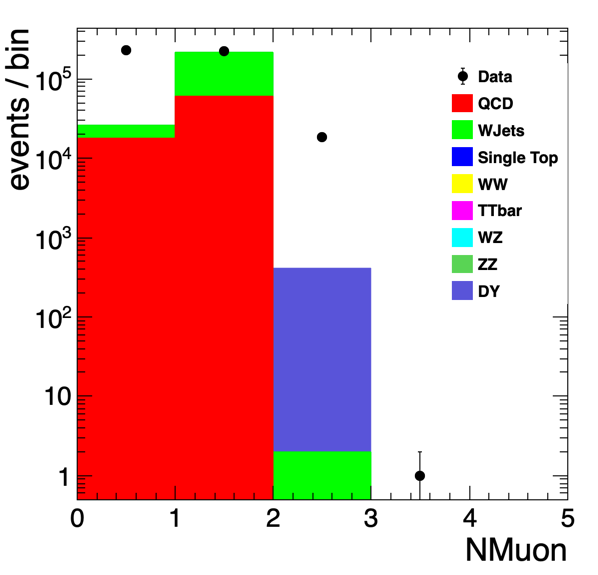
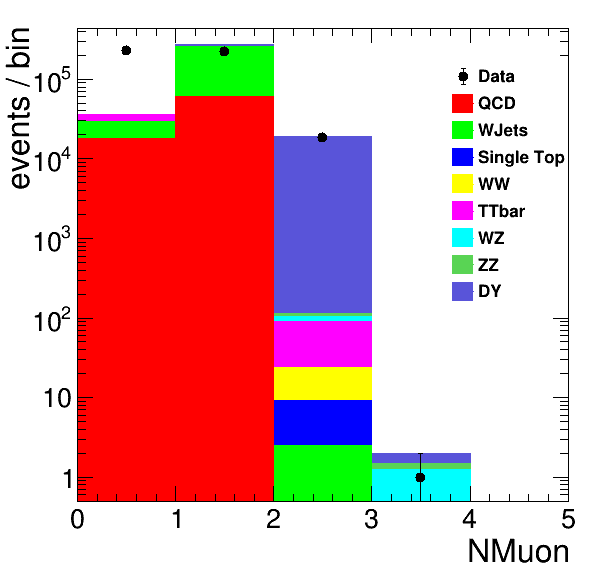
adding analysis.C

Changed region(s): [[0.0, 0.0296, 0.9632, 0.9757], [0.4515, 0.207, 0.6321, 0.473]]

diff --git a/code/C/analysis.C b/code/C/analysis.C
@@ -9,31 +9,29 @@
 // root -l analysis.C++
 
 #include <iostream>
-#include <vector>
 #include <string>
-#include <stdio.h>
 
 #include <TROOT.h>
-#include <TTree.h>
 #include <TFile.h>
 #include <TH1F.h>
 #include <TH1I.h>
 #include "TLegend.h"
 #include "TLegendEntry.h"
 #include "THStack.h"
-
+#include "TCanvas.h"
 #include "setTDRStyle.C"
+#include "TTree.h"
+
 
 using namespace std;
 
 // configuration
-float fraction = 1; // fraction of events to proccess for each sample
 #define nFiles  9
+float fraction = 1; // fraction of events to proccess for each sample
 string files[]  = {"data.root", "qcd.root", "wjets.root", "single_top.root", "ww.root", "ttbar.root",  "wz.root", "zz.root", "dy.root"};
 string labels[] = {"Data", "QCD", "WJets", "Single Top", "WW", "TTbar", "WZ", "ZZ",  "DY"};
-int colors[]   =  {1,2,3,4,5,6,7,8,9};
+int colors[] =  {1,2,3,4,5,6,7,8,9};
 string path = "http://theofil.web.cern.ch/theofil/cmsod/files/";
-
 
 // pointers to file and tree objects
 TFile *fp;
@@ -62,11 +60,11 @@ Float_t         Electron_E[2];
 Int_t           Electron_Charge[2];
 Float_t         Electron_Iso[2];
 Int_t           NPhoton;
-Float_t         Photon_Px[2];
-Float_t         Photon_Py[2];
-Float_t         Photon_Pz[2];
-Float_t         Photon_E[2];
-Float_t         Photon_Iso[2];
+Float_t         Photon_Px[3];
+Float_t         Photon_Py[3];
+Float_t         Photon_Pz[3];
+Float_t         Photon_E[3];
+Float_t         Photon_Iso[3];
 Float_t         MET_px;
 Float_t         MET_py;
 Float_t         MChadronicBottom_px;
@@ -94,7 +92,6 @@ Float_t         EventWeight;
 
 void init()
 {
-
    // Set branch addresses
    events->SetBranchAddress("NJet",&NJet);
    events->SetBranchAddress("Jet_Px",Jet_Px);
@@ -149,36 +146,44 @@ void init()
    events->SetBranchAddress("EventWeight",&EventWeight);
 }
 
-
-
 // book histogram for each variable
-TH1I *h_NMuon[nFiles];
+TH1F *h_NMuon[nFiles];
 THStack *hs_NMuon; 
 TCanvas *c_NMuon;
 TLegend *l_NMuon;
 
-TH1I *h_mumuMass[nFiles];
+TH1F *h_mumuMass[nFiles];
 THStack *hs_mumuMass; 
 TCanvas *c_mumuMass;
 TLegend *l_mumuMass;
 
-
 void analysis()
 { 
+
+//    for(auto color: colors)
+//    {
+//      cout << color << endl; 
+//    }
+//    cout << endl;
+//    for(int i = 0; i < nFiles; ++i) 
+//    {
+//	cout << colors[i] << endl;
+//    }
     setTDRStyle();
     gStyle->SetOptTitle(0);
 
     // create an array of samples, holding objects of the sample type
     for(int i = 0; i < nFiles; ++i) 
     {
-        printf("Adding file %s as %s with color %d \n", files[i].c_str(), labels[i].c_str(), colors[i]);
+        //printf("Adding file %s as %s with color %d \n", files[i].c_str(), labels[i].c_str(), colors[i]);
+        cout << "Adding file " << files[i] << " as " << labels[i] << " with color " << colors[i] << endl; 
         string histoName;
 
         // create histograms and the histogram stack
         histoName = "h_NMuon_"+to_string(i);
 
-        h_NMuon[i] = new TH1I( histoName.c_str(), histoName.c_str(), 5, 0, 5); 
-        h_NMuon[i]->Sumw2(true);
+        h_NMuon[i] = new TH1F( histoName.c_str(), histoName.c_str(), 5, 0, 5); 
+        h_NMuon[i]->Sumw2();
         h_NMuon[i]->SetFillColor(colors[i]);
         h_NMuon[i]->SetLineColor(colors[i]);
         h_NMuon[i]->GetXaxis()->SetNdivisions(509);
@@ -188,8 +193,8 @@ void analysis()
 
         histoName = "h_mumuMass_"+to_string(i);
 
-        h_mumuMass[i] = new TH1I( histoName.c_str(), histoName.c_str(), 100, 0, 200); 
-        h_mumuMass[i]->Sumw2(true);
+        h_mumuMass[i] = new TH1F( histoName.c_str(), histoName.c_str(), 100, 0, 200); 
+        h_mumuMass[i]->Sumw2();
         h_mumuMass[i]->SetFillColor(colors[i]);
         h_mumuMass[i]->SetLineColor(colors[i]);
         h_mumuMass[i]->GetXaxis()->SetNdivisions(509);
@@ -207,6 +212,7 @@ void analysis()
    
     for(int i = 0; i < nFiles; ++i) 
     {
+//        if(i==1 || i==2 || i==3 || i == 4 || i==5 || i==6)continue;
 	cout <<"opening "<< files[i] << " from path " << path << endl;   
 
      	fp = TFile::Open( (path + files[i]).c_str() , "READ");
@@ -236,6 +242,8 @@ void analysis()
                 
                 float mumuMass2 = pow(E1 + E2, 2) - pow(px1 + px2, 2) - pow(py1 + py2, 2) - pow(pz1 + pz2, 2);
                 float mumuMass = pow(mumuMass2, 0.5);
+
+		h_mumuMass[i]->Fill(mumuMass, EventWeight);		
 	    }
 	}
 
@@ -279,8 +287,7 @@ void analysis()
     c_mumuMass->SetLogy();
     c_mumuMass->SaveAs("mumuMass.png");
     c_mumuMass->SaveAs("mumuMass.pdf");
-
-
 }
 
-//int main(){simple (); return 0;}
+//uncomment the line below if you want to compile analysis.C
+//int main(){analysis (); return 0;}
